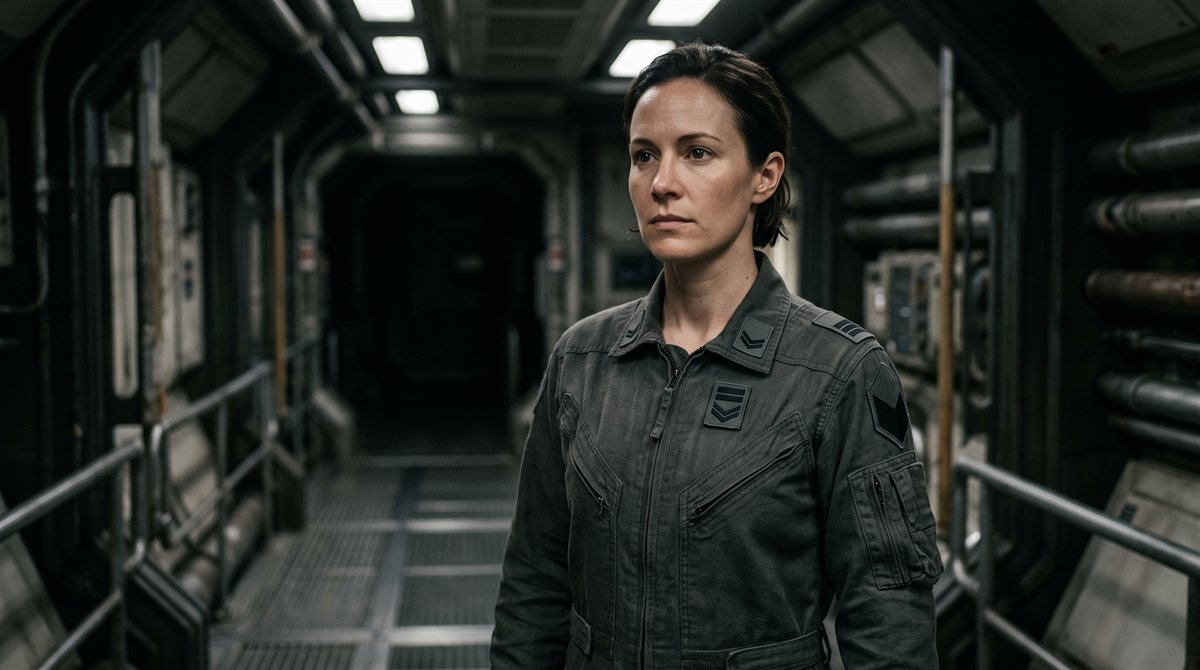
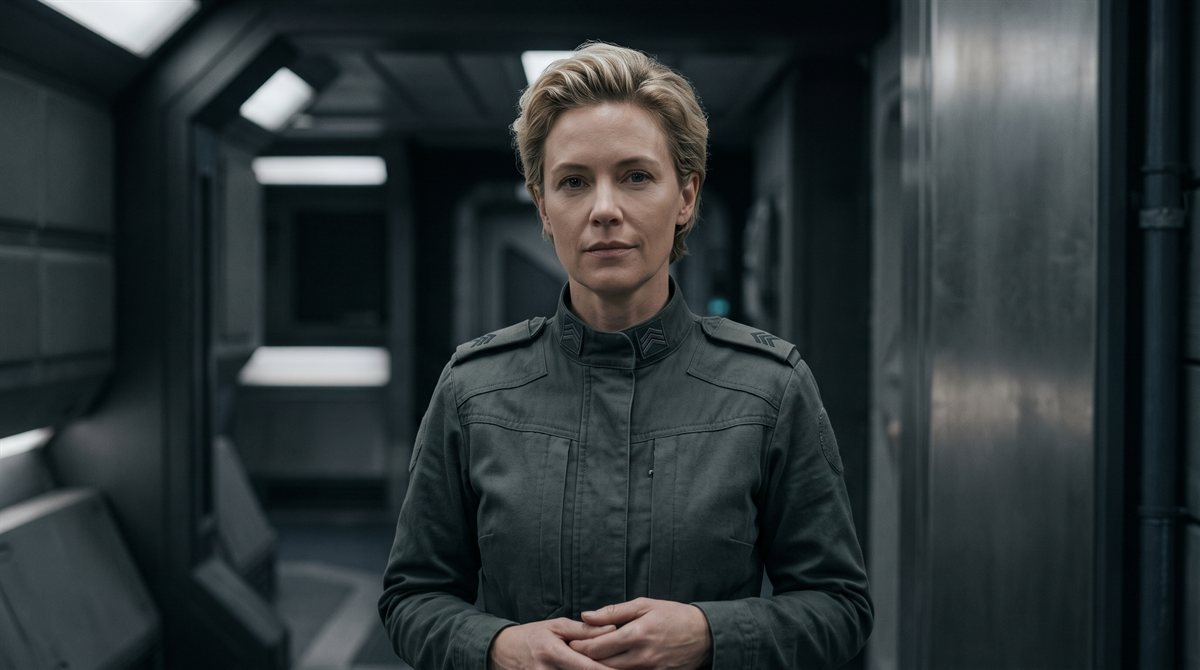
Stop the cast looking related, and make the two Reeves look like twins
Three portraits filed in one batch came back as dark-haired white women of
similar age, build and features. Dermot: they are not related and do not
need the same hair colour and features. Nothing in the briefs asked for
it - it is simply where an unconstrained "cinematic portrait of a woman"
lands every time, and it compounds across a cast until half the Corps
looks like one family.

Catherine Galen stands as filed. Rosalind Vey is now fair and blonde, on
Dermot's instruction. Naomi Kestrel has short dark red hair, green eyes
and freckles - the eyes on his note, the rest my choice and reversible.
Rule recorded: give every human portrait at least one stated
distinguishing feature and check a new brief against the ones already
filed, not against the page alone.

AND THE CONVERSE, which he supplied immediately and which matters as
much: resemblance has to be earned where it is real. Two cases, one
principle - sameness is meaningful only when it is true, so it must be
deliberate in both directions.

Kinship: the clusters currently in the cast are the Shepherds
(Tissadelle, Orla, Sorcha), the Wenders (Karla, and Anne when drafted)
and the Vosses (Petra, Dagny). Carry one or two shared features across a
set rather than a matching face - a family resemblance is a recurrence,
not a duplicate.

Manufacture: Reeves at Threshold and Reeves at Eden are the same model on
separate deployments and their pages say so, so their images should be
[…]

diff --git a/story-bible/images.md b/story-bible/images.md
@@ -512,11 +512,11 @@ below are ready to paste; add `image`/`image_alt` after generating.
 
 - **`naomi-kestrel.jpg`** — junior field investigator, Eden Civil Investigations;
   reads telemetry, manifests and comm chatter "as one continuous sentence."
-  > Cinematic portrait of a young woman analyst at a plain working table in a quiet habitat room, upper body, focused expression. The room is lit by soft diffuse recessed lighting from a concealed source, warm and even, with no lamp, no light fitting, no shade and no bulb visible anywhere in frame. In front of her lies one slim matte grey reading tablet the size and thickness of a small hardback book, entirely unlit and blank-faced, its surface catching the room light the way a page would; nothing else on the table. Practical dark uniform bearing small geometric rank marks — plain metal bars and a single star at the collar, shapes only. No name tape, no name badge, no printed words, no letters and no numerals on her clothing of any kind. Calm, uncluttered interior of a well-kept space habitat, muted palette, professional, no glamour styling. Absolutely no screens, no monitors, no glowing displays, no holograms, no projected light, no consoles, no dials, no gauges, no analogue instrument panels, no filing binders and no loose paper anywhere in frame. Her face is lit by the room, never by anything she is reading. No readable text, numerals, signage or written characters of any script anywhere in frame. Portrait orientation.
+  > Cinematic portrait of a young woman analyst with dark red hair cut short, clear green eyes and a freckled complexion, at a plain working table in a quiet habitat room, upper body, focused and absorbed rather than worried. The room is lit by soft diffuse recessed lighting from a concealed source, warm and even, with no lamp, no light fitting, no shade and no bulb visible anywhere in frame. Flat on the table in front of her lies one slim matte grey reading slate, a single rigid slab the size and thickness of a small hardback book, lying face-up on the tabletop, entirely unlit and blank-faced, its surface catching the room light the way a page would. It has no hinge, no lid, no keyboard, no stand and no raised panel — it is not a laptop, not a clamshell and not propped up at any angle; it lies flat like a closed book set down. Nothing else on the table. Practical dark uniform bearing small geometric rank marks — plain metal bars and a single star at the collar, shapes only. No name tape, no name badge, no printed words, no letters and no numerals on her clothing of any kind. Calm, uncluttered interior of a well-kept space habitat, muted palette, professional, no glamour styling. Absolutely no screens, no monitors, no glowing displays, no holograms, no projected light, no consoles, no dials, no gauges, no analogue instrument panels, no filing binders and no loose paper anywhere in frame. Her face is lit by the room, never by anything she is reading. No readable text, numerals, signage or written characters of any script anywhere in frame. Portrait orientation.
 
 - **`rosalind-vey.jpg`** — tactical specialist, Eden Civil Investigations;
   ex-habitat tactical response, treats a scene as a room that might still be dangerous.
-  > Cinematic portrait of a composed woman in a practical tactical-response jumpsuit aboard a space habitat, upper body, alert and unbothered expression, subdued corridor lighting, science-fiction setting, desaturated palette, professional, no glamour styling. The jumpsuit carries small geometric rank marks only — plain bars and chevrons at the collar and shoulder, shapes and nothing else. No name tape, no name badge, no printed words, no letters and no numerals on her clothing of any kind. Lighting is soft, diffuse and recessed, with no lamp or light fitting visible. No screens, no glowing displays, no holograms and no projected light anywhere in frame. No readable text, numerals, signage or written characters of any script anywhere in frame. Portrait orientation.
+  > Cinematic portrait of a composed woman with fair blonde hair worn short and pushed back, in a practical tactical-response jumpsuit aboard a space habitat, upper body, alert and unbothered expression, subdued corridor lighting, science-fiction setting, desaturated palette, professional, no glamour styling. The jumpsuit carries small geometric rank marks only — plain bars and chevrons at the collar and shoulder, shapes and nothing else. No name tape, no name badge, no printed words, no letters and no numerals on her clothing of any kind. Lighting is soft, diffuse and recessed, with no lamp or light fitting visible. No screens, no glowing displays, no holograms and no projected light anywhere in frame. No readable text, numerals, signage or written characters of any script anywhere in frame. Portrait orientation.
 
 - **`tamsin-reyes.jpg`** — undercover specialist; "whoever a room needs her to
   be," craft not instinct. Deliberately forgettable.
@@ -623,6 +623,16 @@ below are ready to paste; add `image`/`image_alt` after generating.
 
 - **`jeeves.jpg`** — domestic-companion AI, Eden; kitchen-and-gossip competence.
   > Abstract emblematic image representing a domestic household artificial intelligence: a warm pool of low amber light resting on the scrubbed wooden surface of a quiet kitchen table at night, a folded cloth and a single clean cup set neatly beside it, everything tidied and ready for a morning that has not arrived yet. Soft ambient glow with no visible source, deep warm browns and honey tones against a dark room, domestic and calm and companionable. No human face, no figure, no hands, no machine, no robot, no screens, no displays, no consoles, no interface, no glyphs, no icons, no symbols, no numerals and no lettering of any script anywhere in frame. Portrait orientation.
+
+- **`reeves.jpg`** — investigative-support AI, Threshold Station; **the other
+  half of a deliberate pair.** Written 13 August on Dermot's note that the two
+  or more instances of Reeves might look very similar to each other. They are
+  the same model on separate deployments and their pages say so, so the images
+  copy each other closely on purpose — same emblem, same palette, same
+  restraint — and differ only the way a second installation of one thing
+  differs. Here the partial figure is further along: more points joined, still
+  not finished. Same intelligence, longer posting. Nothing else changes.
+  > Abstract emblematic image representing an investigative intelligence: a slow constellation of small cool-blue points of light suspended in dark space, joined by faint thin lines into a partial figure that is most of the way complete but still open at one edge, a few points left unconnected. Deep indigo and near-black background, soft volumetric glow, quiet and patient rather than busy or urgent, a sense of a pattern nearly found and not yet claimed. No screens, no consoles, no terminals, no user interface, no panels, no dials, no charts, no diagrams, no icons, no symbols, no glyphs, no numerals, no lettering of any script, no human face, no figure, no machinery of any kind. Pure light and geometry only. Portrait orientation.
 
 - **`reeves-eden.jpg`** — investigative-support AI, Eden bureau; same model as
   Threshold's Reeves, distinct enough to read as a separate deployment.
@@ -745,6 +755,37 @@ has to change. Two tests before generating:
   *Gritty* did the same to `lorien-the-wanderer`, returning a rusted, stained,
   half-derelict hull for a captain whose own page says she has never lost a
   ship. A genre word is a whole set of defaults arriving at once.
+- **The generator converges on one face, so vary the cast on purpose.** Three
+  portraits filed in the same batch on 13 August — `naomi-kestrel`,
+  `galen`, `rosalind-vey` — came back as dark-haired white women of similar
+  age, build and features. Dermot: *"they are not related; they do not need the
+  same hair colour and features."* Nothing in any of the three briefs asked for
+  that; it is simply where an unconstrained "cinematic portrait of a woman"
+  lands, every time, and the effect compounds across a cast until half the
+  Corps looks like one family. **Give every human portrait at least one stated
+  distinguishing feature** — hair colour and cut, build, age band, colouring —
+  and check a new brief against the ones already filed rather than against the
+  page alone. Heritage is a separate question and belongs to Dermot (see the
+  `rasa-oyelaran` rule below); this is about not producing siblings by default.
+- **And the converse, which matters just as much: resemblance has to be earned
+  where it is real.** Dermot, same exchange: *"obviously characters who are
+  meant to be related should look similar in some way,"* and *"the two or more
+  instances of Reeves might look very similar to each other."* Two cases, one
+  principle — sameness is meaningful only when it is true, so it must be
+  deliberate in both directions.
+  - **Kinship.** The clusters currently in the cast are the **Shepherds**
+    (Tissadelle, Órla, Sorcha), the **Wenders** (Karla, and Anne when she is
+    drafted) and the **Vosses** (Petra, Dagny) — check the relationship on the
+    pages before assuming it, then carry one or two shared features across the
+    set rather than a matching face. A family resemblance is a recurrence, not
+    a duplicate.
+  - **Manufacture.** [Reeves](/star-rangers/characters/reeves/) at Threshold
+    and [Reeves](/star-rangers/characters/reeves-eden/) at Eden are the same
+    model on separate deployments, and their pages say so. Their images should
+    be **near-identical by design**, differing only in the small way a second
+    installation of one thing differs — a shifted accent, a different count,
+    the same emblem seen from another angle. This is the one place in the file
+    where copying a previous image closely is the correct answer.
 - **Spare is not shabby, and minimal is not neglected.** The distinction is
   worth stating because briefs reach for *stripped-down*, *worn*, *practical*
   and *utilitarian* constantly, and every one of them can slide into decay.

diff --git a/src/characters/reeves.md b/src/characters/reeves.md
@@ -9,7 +9,7 @@ aliases: []
 tags: [ai, kernel-compliant, investigative, threshold-station, season-1]
 description: "Detective Inspector Ashcombe's investigative support intelligence: correct, courteous, and constitutionally unable to volunteer a conclusion before being asked the right question."
 image: "reeves.jpg"
-image_alt: "Designed placeholder card for Reeves: the title and role set in pale serif type over a dark blue-black gradient, headed PORTRAIT PENDING. No portrait for this entry exists yet."
+image_alt: "An abstract emblem for an investigative intelligence: cool blue points of light on a deep indigo field, joined by fine lines into a dense ring that is almost closed and still open along one edge — the same emblem as Eden's Reeves, further along."
 ---
 
 Reeves is the investigative support intelligence attached to Detective Inspector [Ashcombe](/star-rangers/characters/bertram-ashcombe/) aboard Threshold Station. It maintains the case logs, reconciles the physical evidence, cross-references station telemetry, and has, by a wide and undocumented margin, solved more of Ashcombe's cases than Ashcombe has.

diff --git a/src/characters/naomi-kestrel.md b/src/characters/naomi-kestrel.md
@@ -8,7 +8,7 @@ status: Active
 aliases: []
 tags: [human, eden, investigations, junior-detective, season-1]
 image: "naomi-kestrel.jpg"
-image_alt: "Analyst Naomi Kestrel seated at a plain table in a quiet, softly lit habitat room, wearing a dark uniform with two small metal bars and a star at the collar. One slim closed matte slate lies on the table in front of her. The light is recessed and diffuse; nothing glows but the ceiling."
+image_alt: "Analyst Naomi Kestrel, a young woman with short dark red hair, green eyes and freckles, seated at a plain table in a softly lit habitat room. Her grey uniform carries three small bars and a star at the collar. One slim closed matte slate lies flat on the table in front of her; the light is recessed, with no lamp in view."
 description: "A junior field investigator aboard Eden Space Habitat who reads habitat telemetry, dock manifests, and comm chatter as one continuous sentence, and finishes it before someone gets hurt."
 ---
 

diff --git a/src/characters/rosalind-vey.md b/src/characters/rosalind-vey.md
@@ -8,7 +8,7 @@ status: Active
 aliases: []
 tags: [human, eden, investigations, junior-detective, season-1, undercover-pets.com]
 image: "rosalind-vey.jpg"
-image_alt: "Rosalind Vey standing in a working habitat corridor in a grey tactical-response jumpsuit marked with small chevron patches at the chest and shoulder, alert and unbothered, lit by recessed overhead panels."
+image_alt: "Rosalind Vey, a woman with short fair blonde hair pushed back, standing in a dim habitat corridor in a grey tactical-response jumpsuit marked with small chevrons at the collar and shoulders, composed and unbothered, lit by recessed overhead panels."
 description: "Eden Civil Investigations Unit's tactical specialist: unbothered under pressure, and the one everyone calls first when a breach turns out to be physical rather than theoretical."
 ---
 
